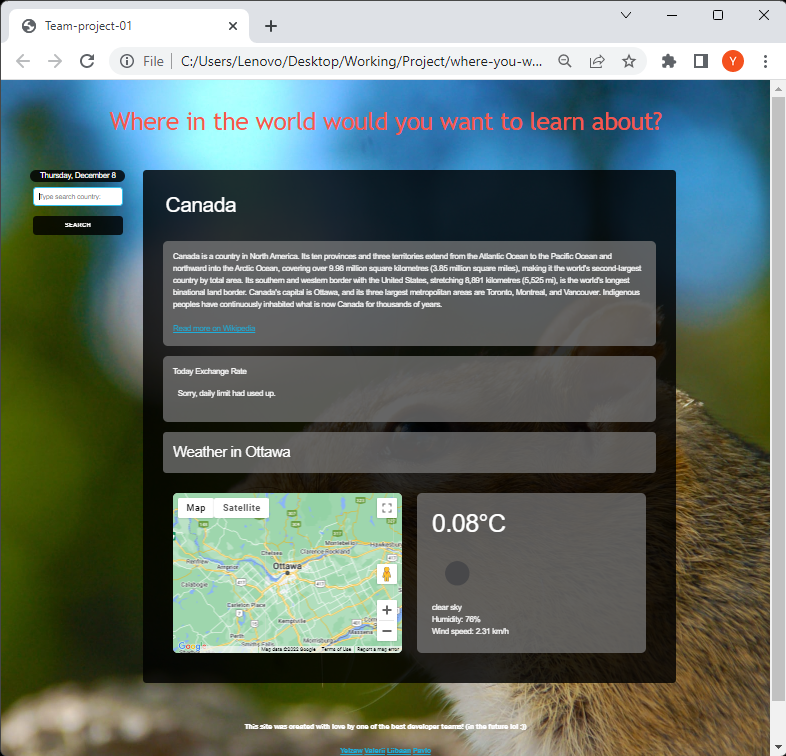
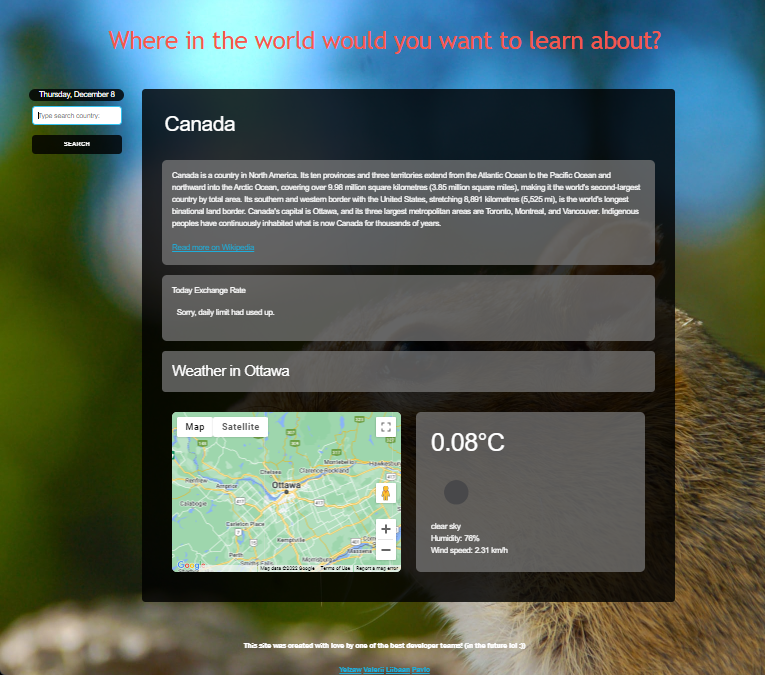
changed font style

diff --git a/index.html b/index.html
@@ -38,8 +38,7 @@
             <article>
                 <p>My name is Yel. </p> 
                 <br>
-                <p>I love to use coding in my work and it make me easier some of tasks.</p>
-                <p>I am an Engineering Geologist and currently I am attending part time IT courses to be able to change my career.</p>
+                <p>Motivated well trained junior full stack Web Developer graduate from UNB bootcamp is looking for a development position to expand knowledge and skills towards working in a collaborative environment. Adapt at solving various technical problems with practical solutions using various types of computer software. Ability and willingness to innovate and learn new technologies, quick learner passionate about development. </p>
             </article>
         </section>
         <section id="projects">

diff --git a/assets/css/style.css b/assets/css/style.css
@@ -144,7 +144,9 @@ article {
   width: 75%;
   max-height: 100%;
   padding-left: 10px;
-  justify-content: center;
+  justify-content: space-evenly;
+  line-height: 1.5;
+  font-size: medium;
 }
 /*Setting of image (screenshot of webpage) in Projects section*/
 .images {
